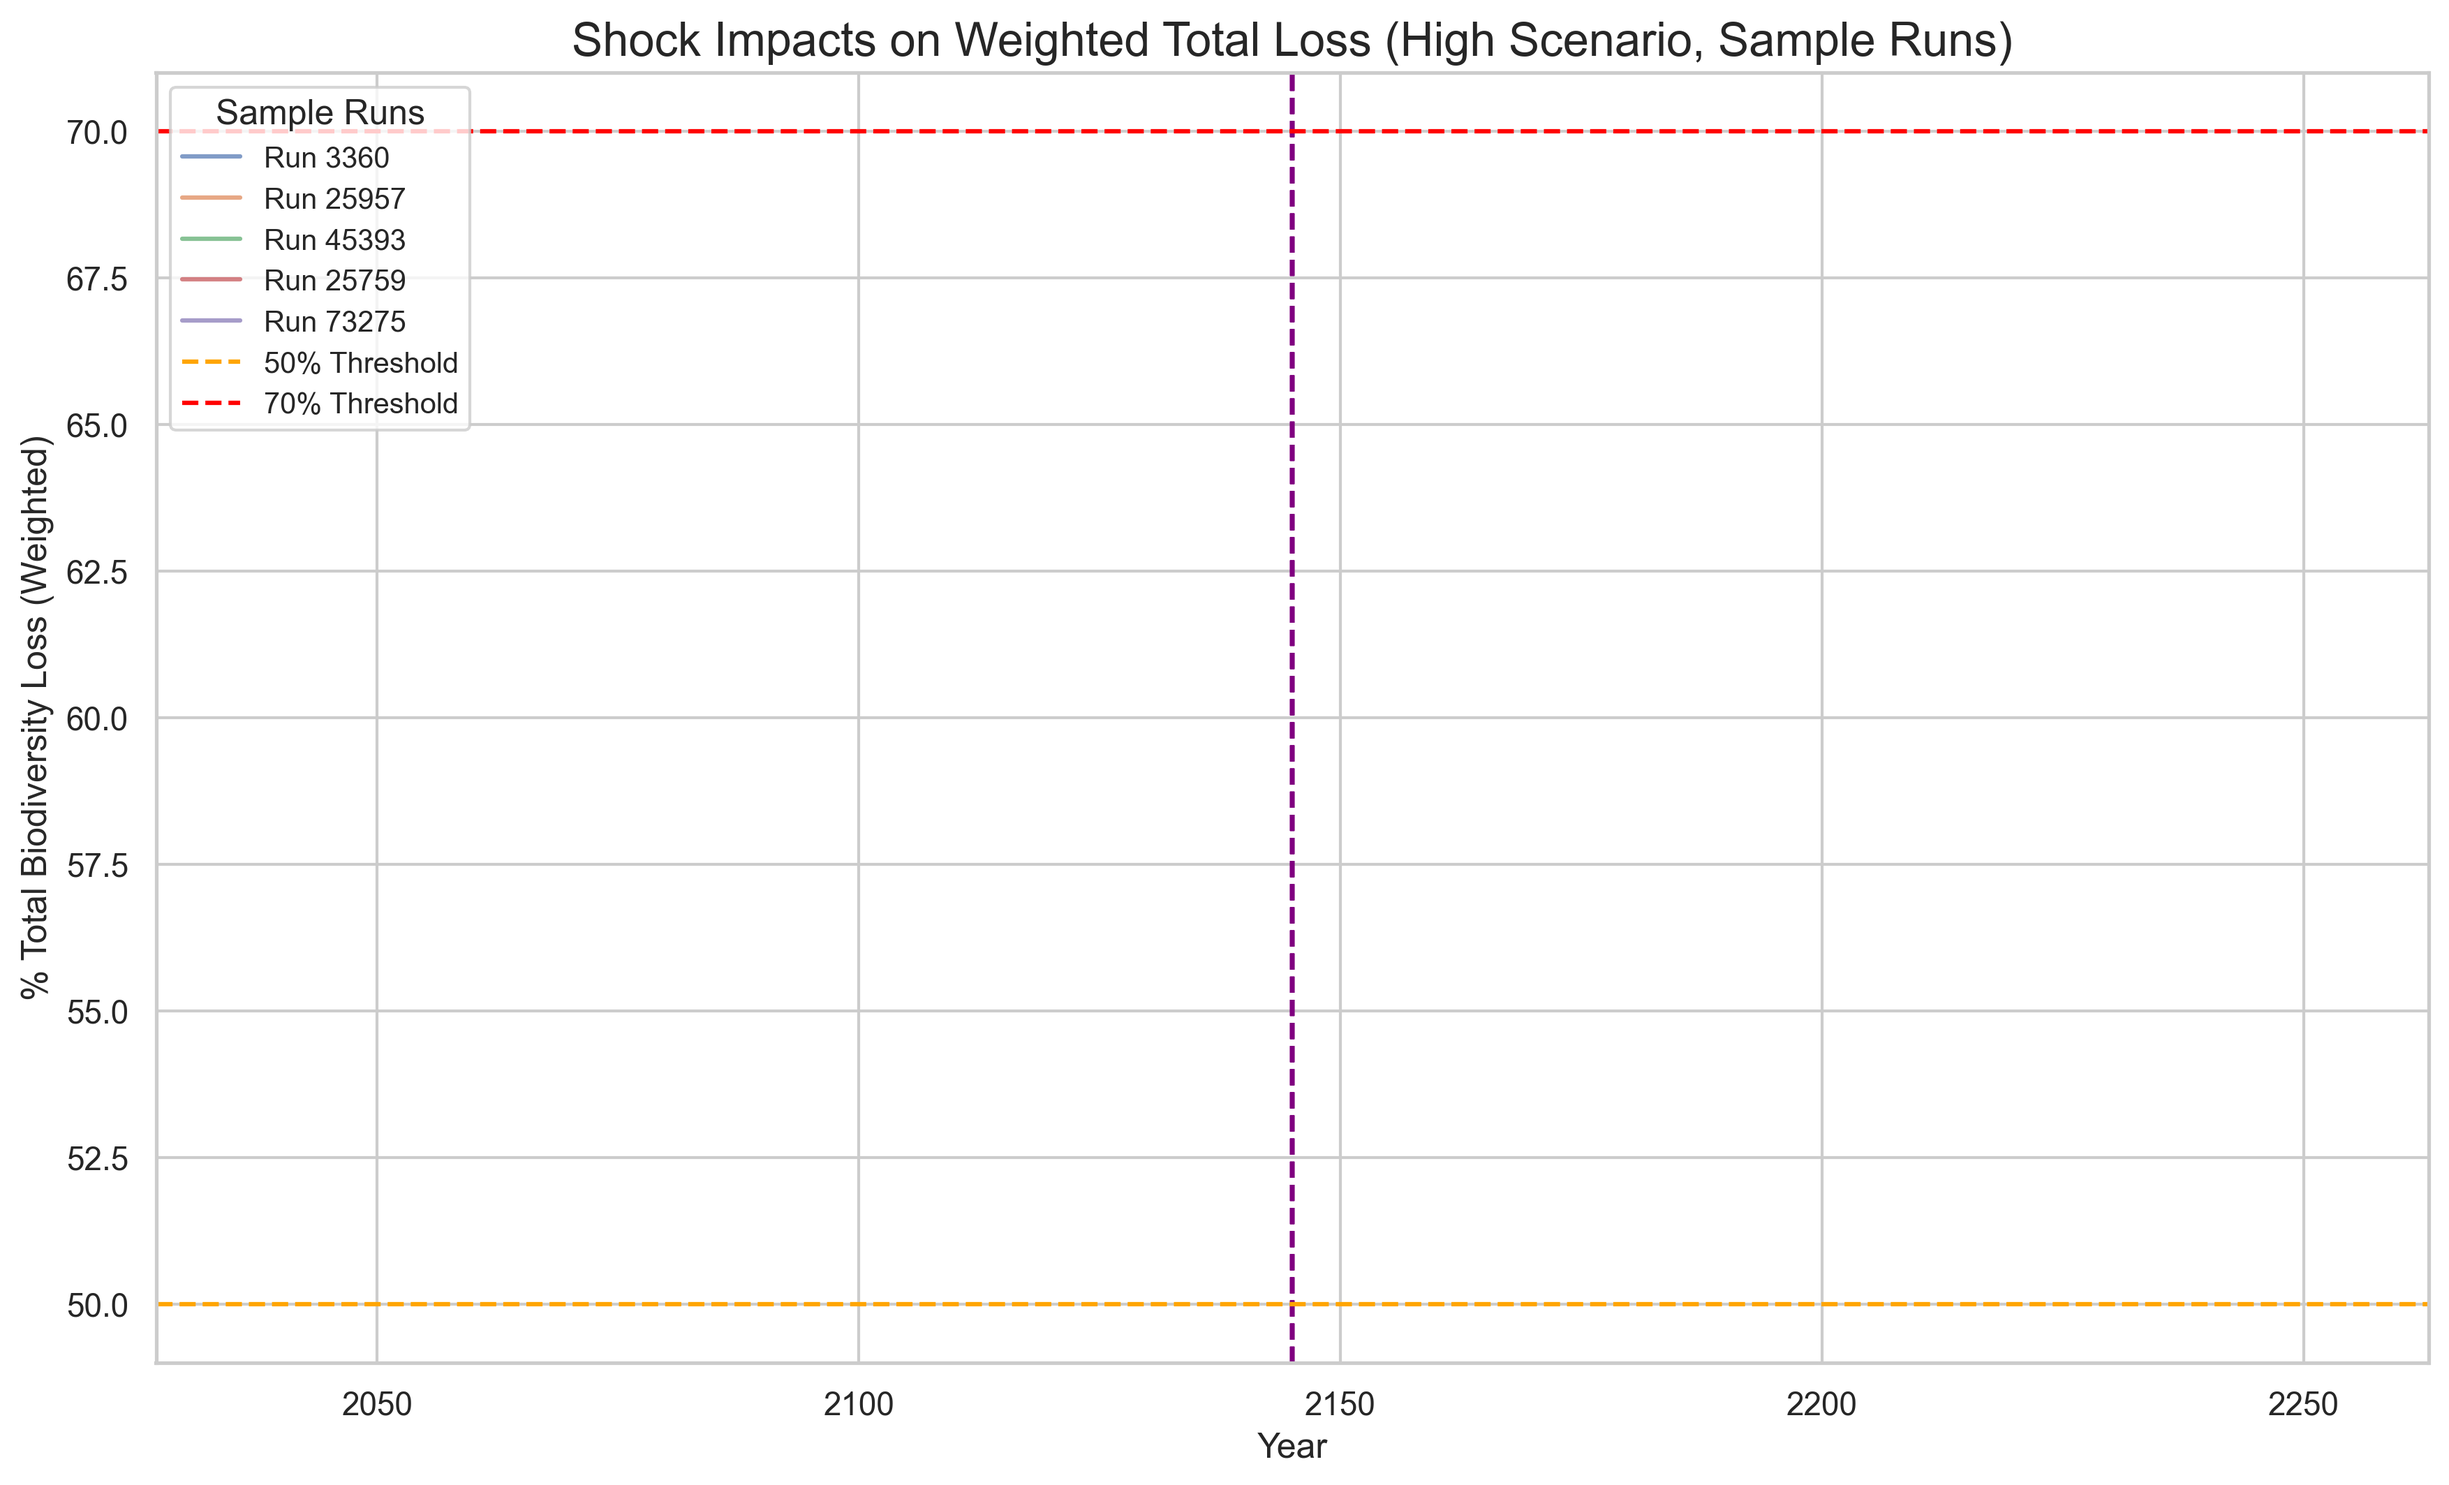
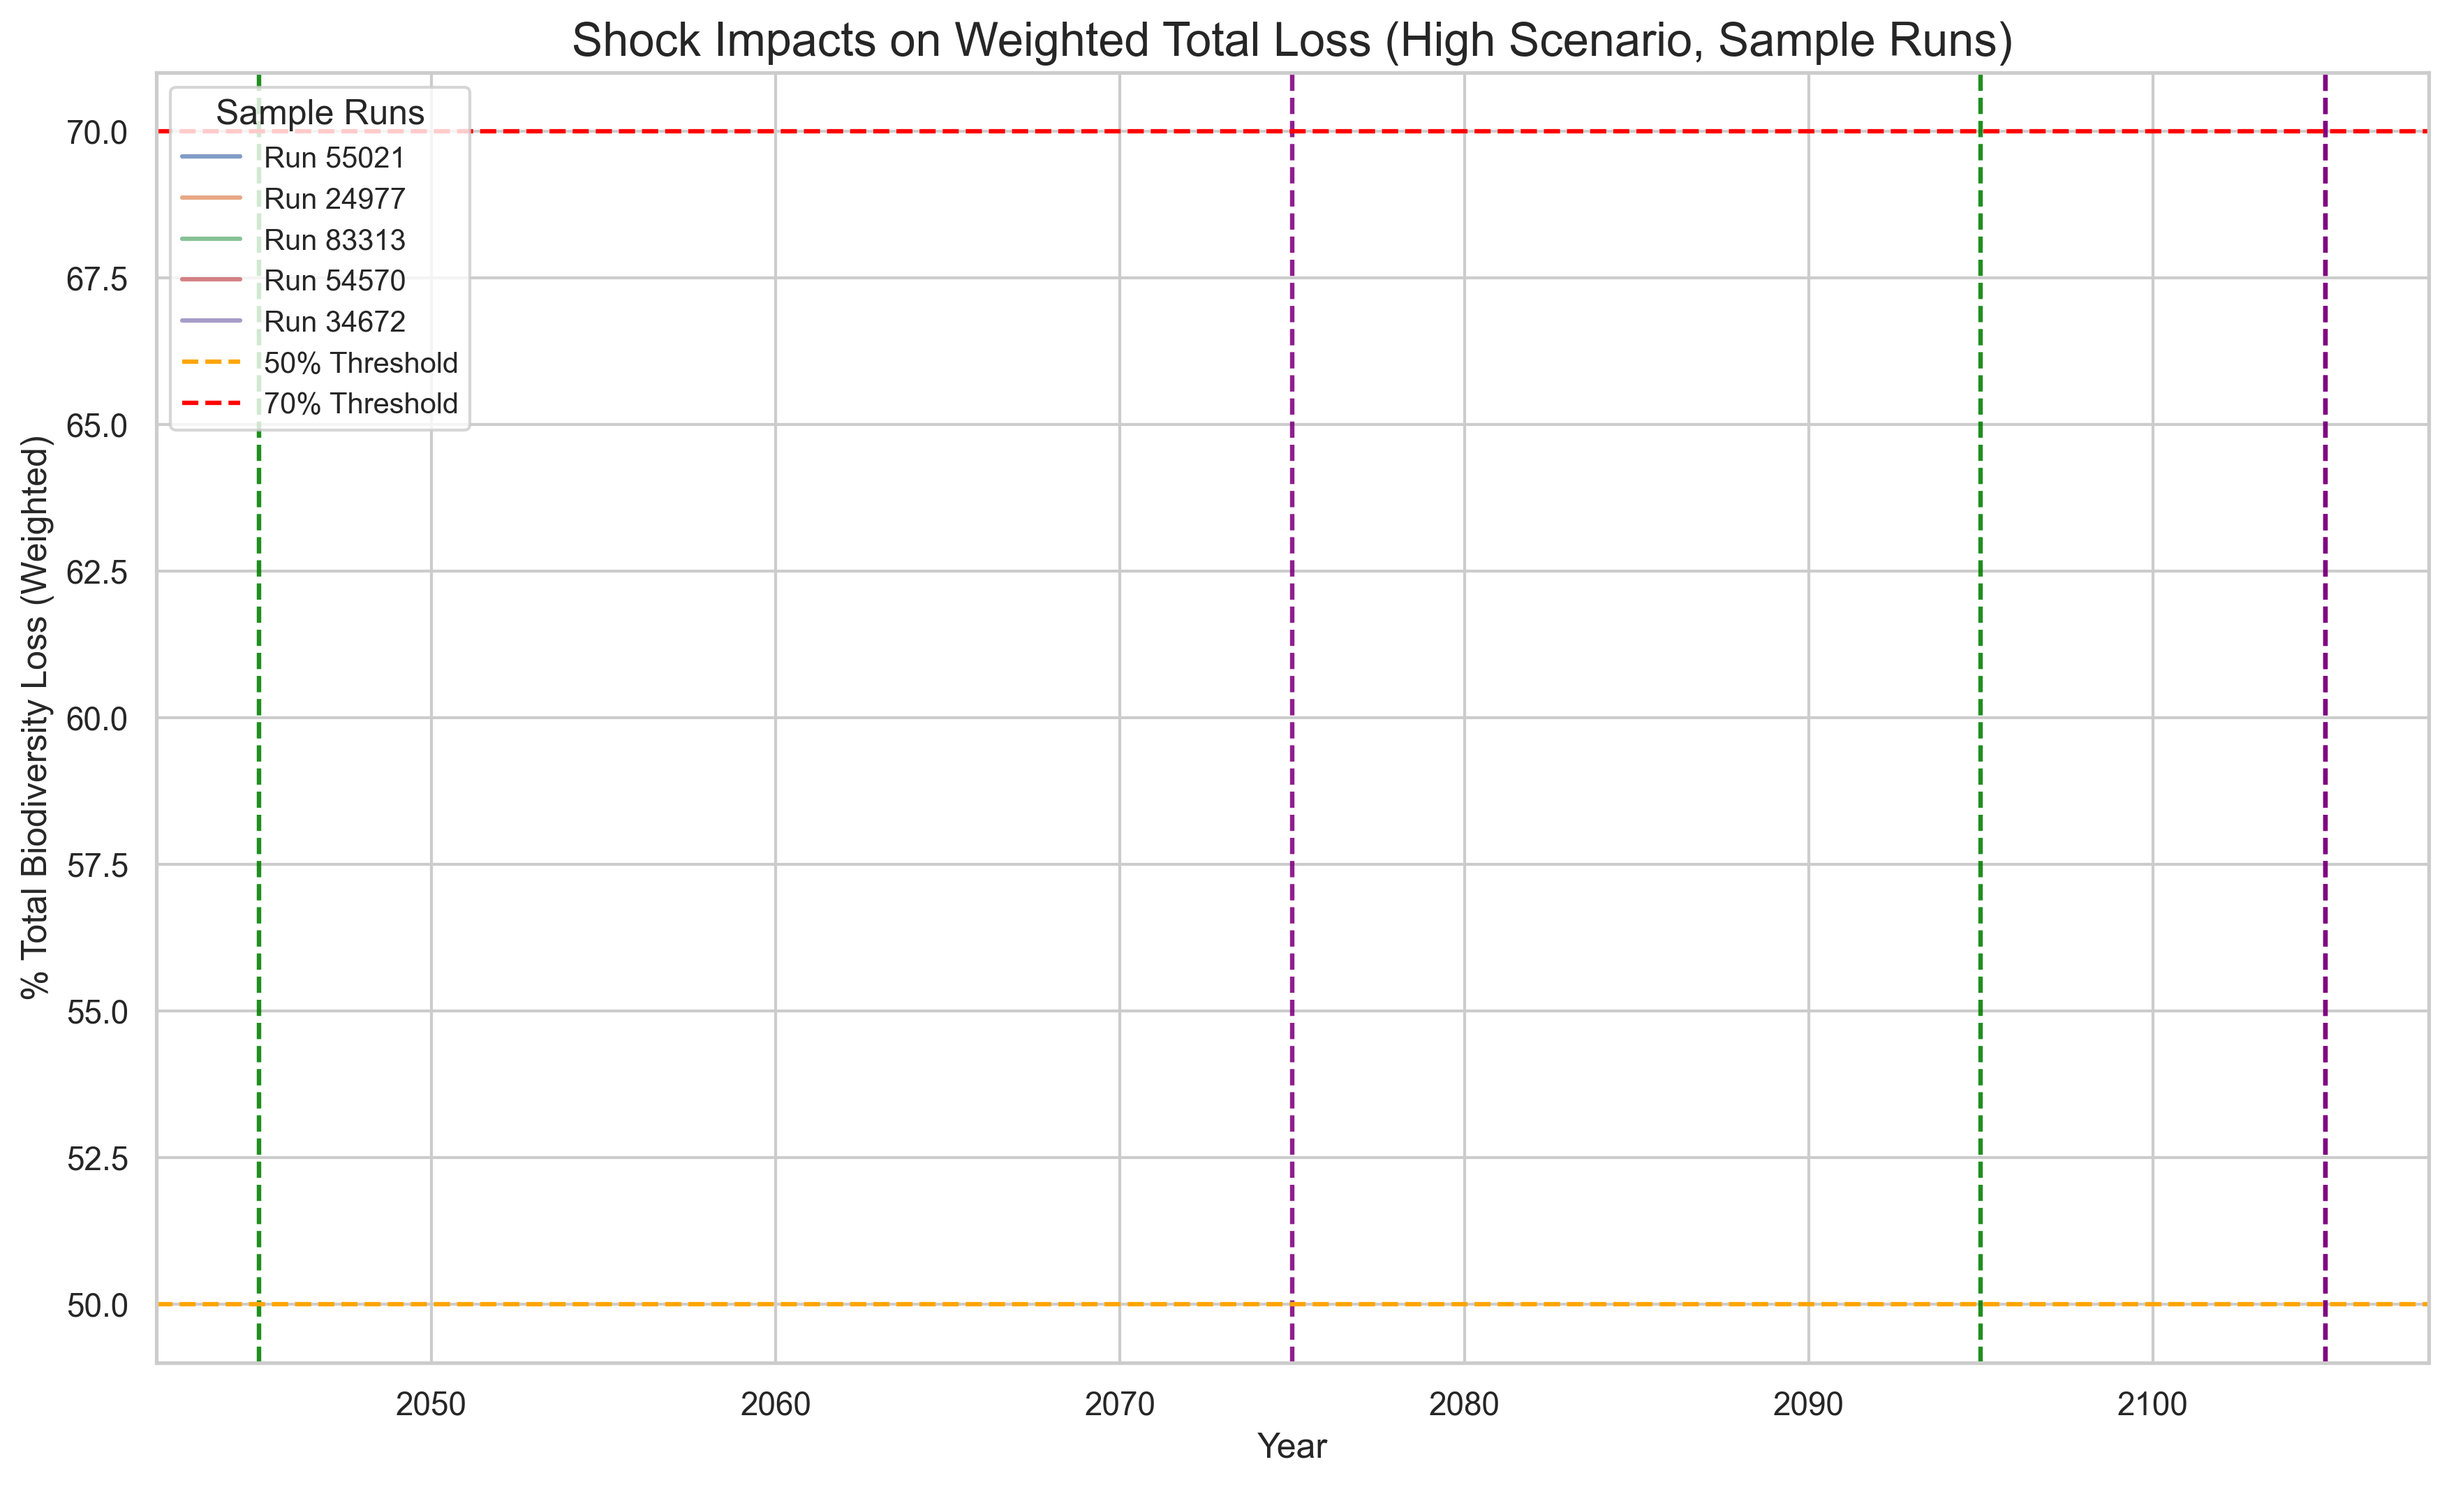
wilder swans

diff --git a/simulations/ecosystem_cascade.py b/simulations/ecosystem_cascade.py
@@ -49,8 +49,10 @@ cascade_effects = {
     'Polar': {'Arctic Sea Ice': 1.1}
 }
 
-shock_annual_prob = 0.05
-shock_magnitude = {'positive': -0.02, 'negative': 0.03}
+# Boosted shock parameters
+shock_annual_prob = 0.10  # 10% chance per decade
+shock_magnitude = {'positive': -0.10, 'negative': 0.10}  # ±10% loss rate adjustment
+shock_targets = ['Oceans', 'Coral Reefs', 'Wetlands']  # Multi-ecosystem hit
 
 transform_threshold = 0.5
 transform_targets = {
@@ -80,7 +82,7 @@ def run_ecosystem_simulation(scenario, include_shocks=False):
     transformed = {eco: np.zeros(n_iter, dtype=bool) for eco in ecosystems}
     shock_events = np.random.binomial(1, shock_annual_prob, size=(n_iter, len(years))) if include_shocks else np.zeros((n_iter, len(years)))
     shock_types = np.random.choice(['positive', 'negative'], size=(n_iter, len(years))) if include_shocks else np.full((n_iter, len(years)), 'none')
-    shock_log = []  # Log shocks: iteration, year, type
+    shock_log = []
 
     for t, year in enumerate(years):
         for eco in ecosystems:
@@ -90,19 +92,22 @@ def run_ecosystem_simulation(scenario, include_shocks=False):
             mean_loss = (base_loss_means[eco][scenario] if not np.any(transformed[eco])
                          else (base_loss_means[target_eco][scenario] if target_eco else base_loss_means[eco][scenario]))
             
-            shock_adjust = np.where(shock_events[:, t], 
-                                  np.where(shock_types[:, t] == 'positive', shock_magnitude['positive'], shock_magnitude['negative']), 
-                                  0)
-            adjusted_mean_loss = np.clip(mean_loss + shock_adjust, 0, 0.15)
+            # Apply boosted shocks to target ecosystems
+            shock_adjust = 0
+            if include_shocks and eco in shock_targets:
+                shock_adjust = np.where(shock_events[:, t], 
+                                      np.where(shock_types[:, t] == 'positive', shock_magnitude['positive'], shock_magnitude['negative']), 
+                                      0)
+            adjusted_mean_loss = np.clip(mean_loss + shock_adjust, 0, 0.20)  # Raised cap for bigger shocks
             
             annual_loss = stats.norm(loc=adjusted_mean_loss, scale=base_loss_std).rvs(n_iter)
             loss_dict[eco][:, t] = loss_dict[eco][:, t-1] + annual_loss if t > 0 else annual_loss
             
-            # Log shocks for this timestep
-            if include_shocks:
+            # Log shocks for target ecosystems
+            if include_shocks and eco in shock_targets:
                 for i in range(n_iter):
                     if shock_events[i, t]:
-                        shock_log.append({'iteration': i, 'year': year, 'type': shock_types[i, t]})
+                        shock_log.append({'iteration': i, 'year': year, 'type': shock_types[i, t], 'ecosystem': eco})
             
             for source_eco, targets in cascade_effects.items():
                 if eco in targets:
@@ -165,7 +170,7 @@ for scenario in ['Low', 'Mid', 'High']:
     plt.plot(years, total_loss_mean, label=f'{scenario} Scenario (w/ Shocks)', linewidth=2)
 plt.axhline(y=50, color='orange', linestyle='--', label='50% Threshold (Food/Health Risks)')
 plt.axhline(y=70, color='red', linestyle='--', label='70% Threshold (Survival Threat)')
-plt.title('Total Biodiversity Loss with Black Swan Shocks (2025–2175, No Intervention)', fontsize=16)
+plt.title('Total Biodiversity Loss with Boosted Shocks (2025–2175, No Intervention)', fontsize=16)
 plt.xlabel('Year', fontsize=12)
 plt.ylabel('% Total Biodiversity Loss', fontsize=12)
 plt.legend(title='Scenario', fontsize=10)
